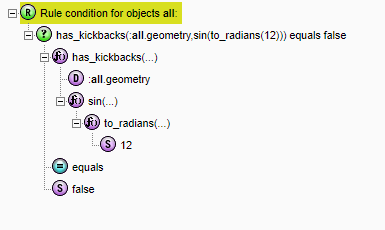
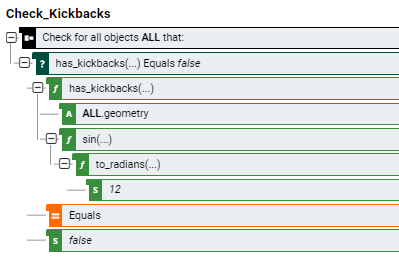
Added new screenshots updated some metadata

Changed region(s): [[0.0, 0.0, 1.0, 1.0]]

diff --git a/1IntegrateForArcGIS/Essential Geometry Checks/README.md b/1IntegrateForArcGIS/Essential Geometry Checks/README.md
@@ -1,5 +1,5 @@
-# [Essential Geometry Checks](Essential Geometry Checks.rules)
-This repo folder contains the Essential Geometry Checks Ruleset that can be used within 1Integrate for ArcGIS.  
+# Essential Geometry Checks
+This repo folder contains the Essential Geometry Checks [Ruleset](Essential Geometry Checks.rules) that can be used within [1Integrate for ArcGIS](https://1spatial.com/products/1integrate-for-arcgis/).  
 For instructions on uploading and publishing Rulesets, please refer to the following [documentation](https://1spatial.com/documentation/1integrate-arcgis/v2/Topics/Rules/Free_Rulesets.htm)
 
 ## Check for Duplicate Features
@@ -7,12 +7,20 @@ Checks for two features within the same class (aka Feature Class) that has the s
 ### Rule Syntax
 Check for objects all that there are no objects duplicate features for which :duplicate features.geometry equals :all.geometry and class(:duplicate features) equals class(:all) and :duplicate features does not equal :all  
 ![Alt text](img/DuplicateFeaturesRule.png?raw=true "Duplicate Feature Rule Screenshot")
+### Report Action Syntax
+Reports on a feature that has a duplicate geometry.
+Action for all objects ALL: if it is the case that ALL.geometry is not equal to null then let dupfeatgeom = ALL.geometry and then report on get_point(dupfeatgeom)
+![Alt text](img/DuplicateFeaturesReportAction.png?raw=true "Duplicate Feature Report Action Screenshot")
 
 ## Check for Duplicate Vertices
 Checks for Duplicate Verticies.  The Duplicate Vertex checks a geometry (Line or Polygon) that has any consecutive coincident vertices.  This rule uses the Built-In function has_duplicates() that Tests to see if a geometry has any consecutive coincident vertices.  It returns a Boolean value, true if the geometry has any consecutive coincident vertices and false if it does not. 
 ### Rule Syntax
 Check for objects all that has_duplicates(:all.geometry) equals false  
 ![Alt text](img/DuplicateVerticesRule.png?raw=true "Duplicate Vertex Rule Screenshot")
+### Report Action Syntax
+Reports on each vertex that has a duplicate as defined above.
+Action for all objects ALL: if it is the case that ALL.geometry is not equal to null then let dupPointsCollection = geom_find_duplicates(ALL.geometry, 0) and then for all objects duppoint in dupPointsCollection do report on duppoint
+![Alt text](img/DuplicateVerticesReportAction.png?raw=true "Duplicate Vertex Action Screenshot")
 
 ## Check for Kickbacks
 Checks whether a geometry has any kickbacks, aka snap-backs, cutbacks, (a type of geometric error where a line segment changes direction twice by approximately 180 degrees to repeat part of the line).  This rule uses the has_kickbacks built-in function.  The has_kickbacks function Checks whether a geometry has any kickbacks (a type of geometric error where a line segment changes direction twice by approximately 180 degrees to repeat part of the line).  The parameters can be configured.  The inputs are 1) geometry to test. 2) (optional) The maximum value for the sine of the angles in the kickback. Note: If omitted, this defaults to the sine of 1 degree. 3) (optional) The maximum width of the kickback. 
@@ -22,6 +30,11 @@ This rule uses a 12 degree tolerance.
 ### Rule Syntax
 Check for objects all that has_kickbacks(:all.geometry,sin(to_radians(12))) equals false  
 ![Alt text](img/KickbackRule.png?raw=true "Kickback Rule Screenshot")
+
+### Report Action Syntax
+Reports on each instance of a kickback on the non-conforming geometry.  The reporting point location is within the center of the actual kickback.
+Action for all objects ALL: if it is the case that ALL.geometry is not equal to null then let kickbackgeom = geom_find_kickbacks(ALL.geometry, sin(to_radians(12))) and then for all objects eachpart in kickbackgeom do report on eachpart  
+![Alt text](img/KickbackReportAction.png?raw=true "Kickback Report Action Screenshot")
 
 ## Check for Multipart Geometries
 Checks for Multi-Part Geometries.  A multi-part geometry are geometries that contain more than one part.  For example, the State of Hawaii, if modeled as one feature in a table, would be a multi-part polygon because it contains multiple polygon geometries for each island within that record.  This rule uses the Count-Parts to determine if there is only 1 part for the geometry.  If the feature has no geometry or has more than 1 part, it will be flagged as a non-conformance.
@@ -40,6 +53,11 @@ This rule uses a 6 degree tolerance.
 Check for objects all that has_spikes(:all.geometry,sin(to_radians(6))) equals false  
 ![Alt text](img/SpikeRule.png?raw=true "Spike Rule Screenshot")
 
+### Report Action Syntax
+Reports on each instance of a spike on the non-conforming geometry.  The reporting point location is at the exact location (the vertex) causing the spike in the geometry.
+Action for all objects ALL: if it is the case that ALL.geometry is not equal to null then let spikegeom = find_spikes(ALL.geometry, sin(to_radians(6))) and then for all objects eachpart in spikegeom do report on eachpart  
+![Alt text](img/SpikeReportAction.png?raw=true "Spike Report Action Screenshot")
+
 ## Licensing
 Copyright © 2018 1Spatial US Patent Number 9542416 B2 (2017-01-10)
 
@@ -55,4 +73,4 @@ WITHOUT WARRANTIES OR CONDITIONS OF ANY KIND, either express or implied.
 See the License for the specific language governing permissions and
 limitations under the License.
 
-A copy of the license is available in the repository's [license.txt](LICNESE) file.
+A copy of the license is available in the repository's [license.txt](LICENSE) file.
